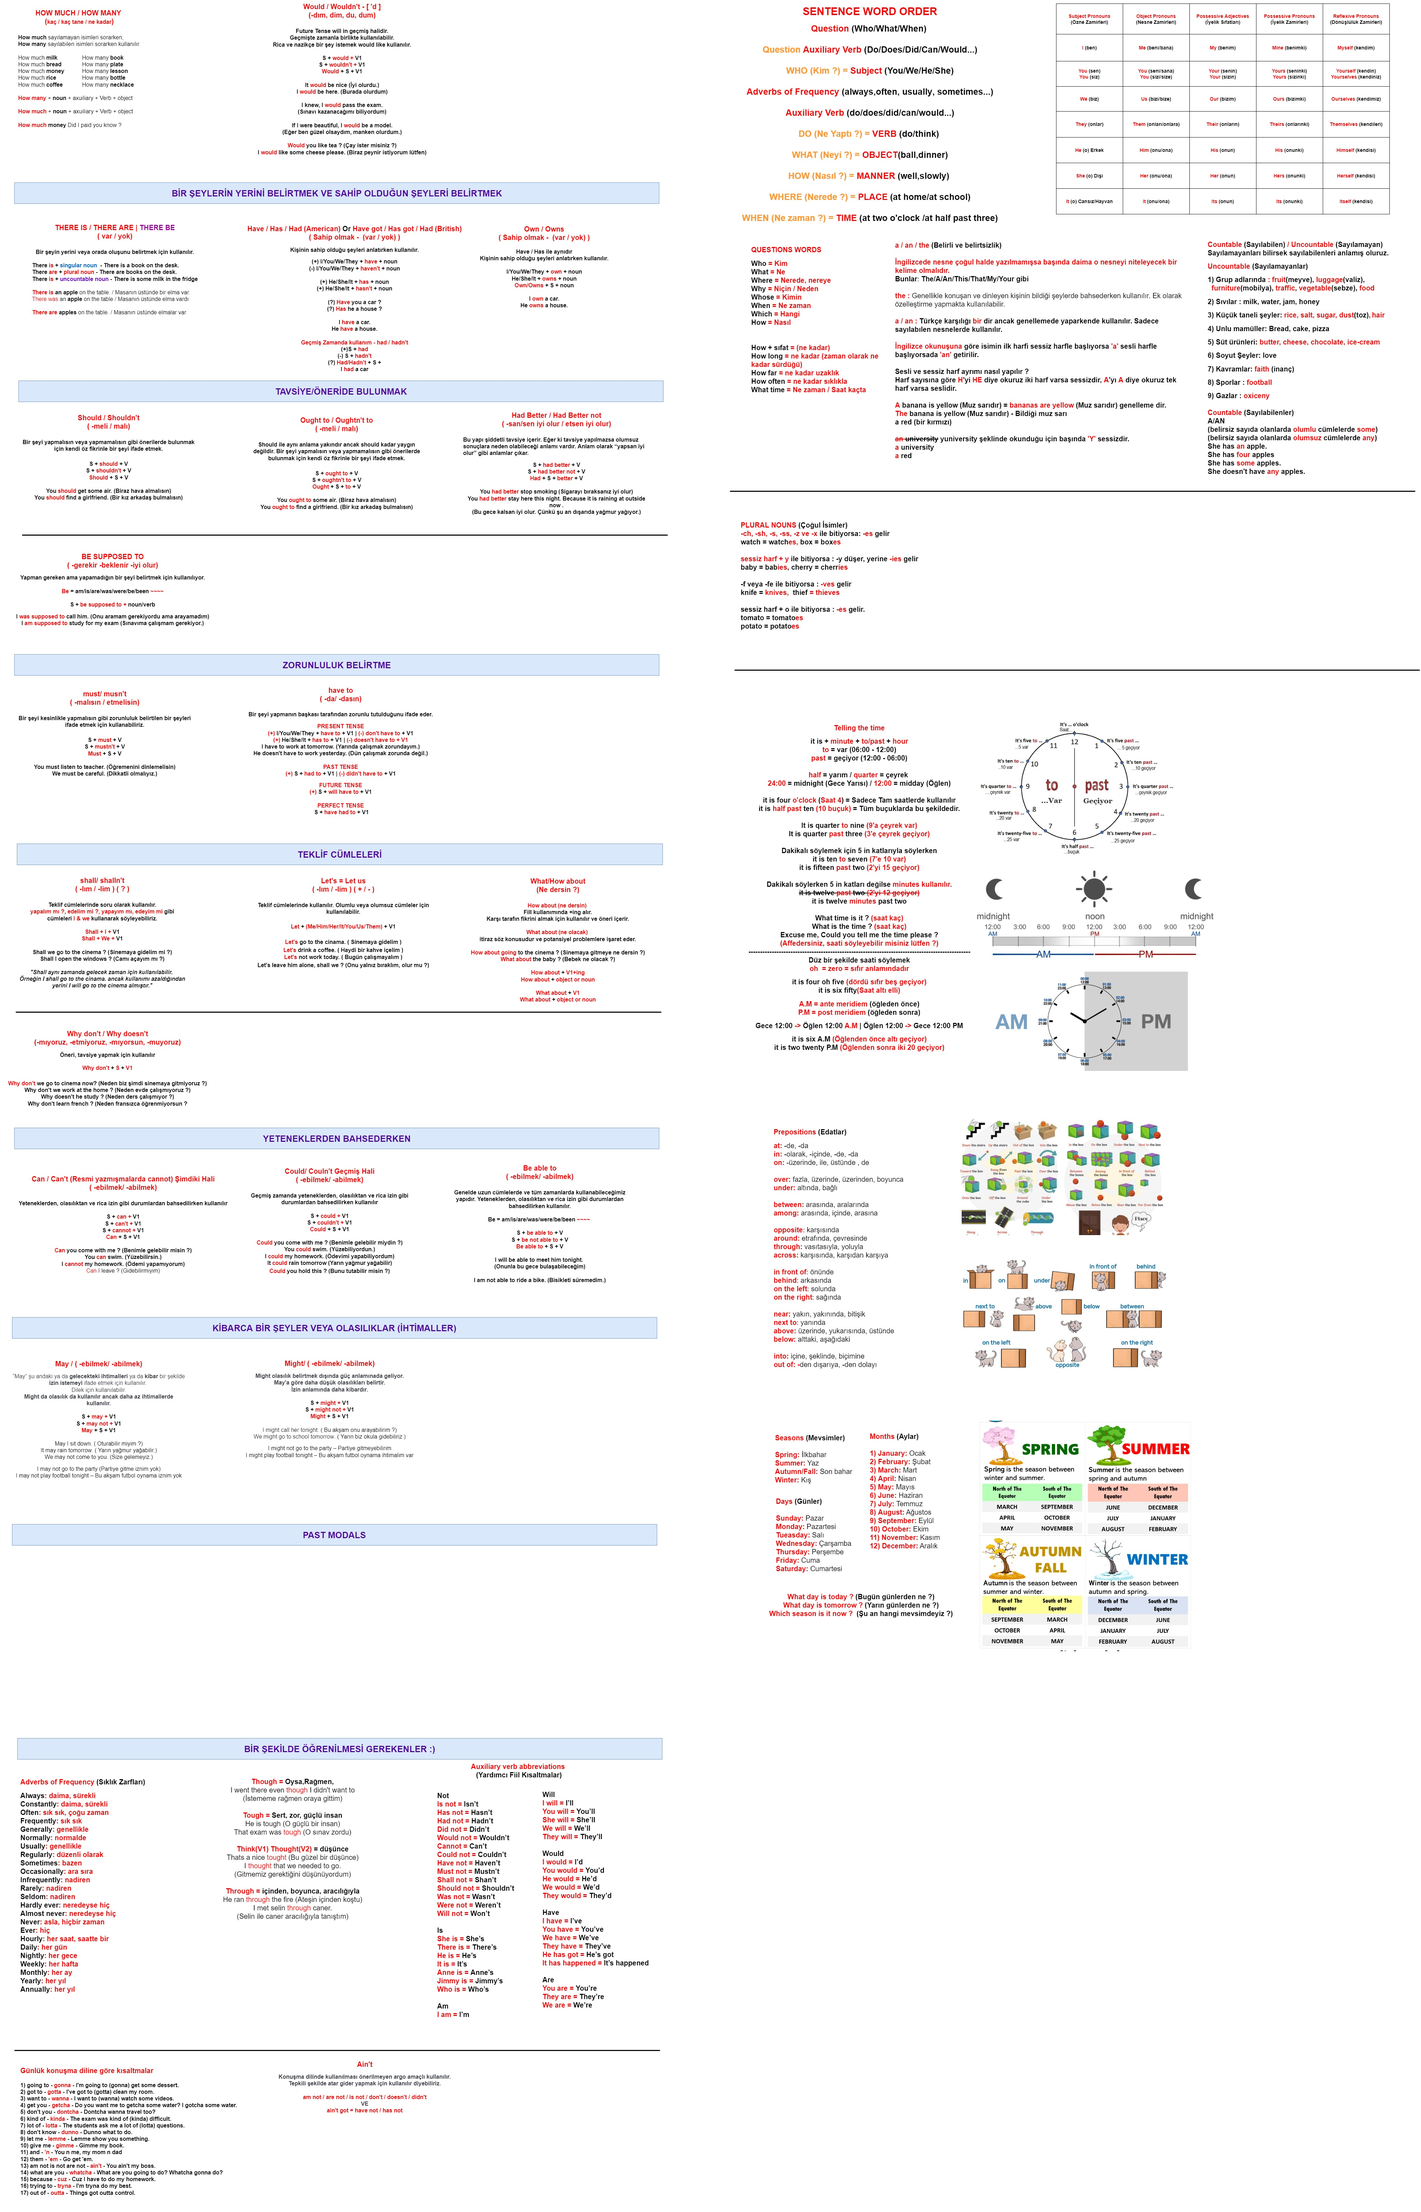
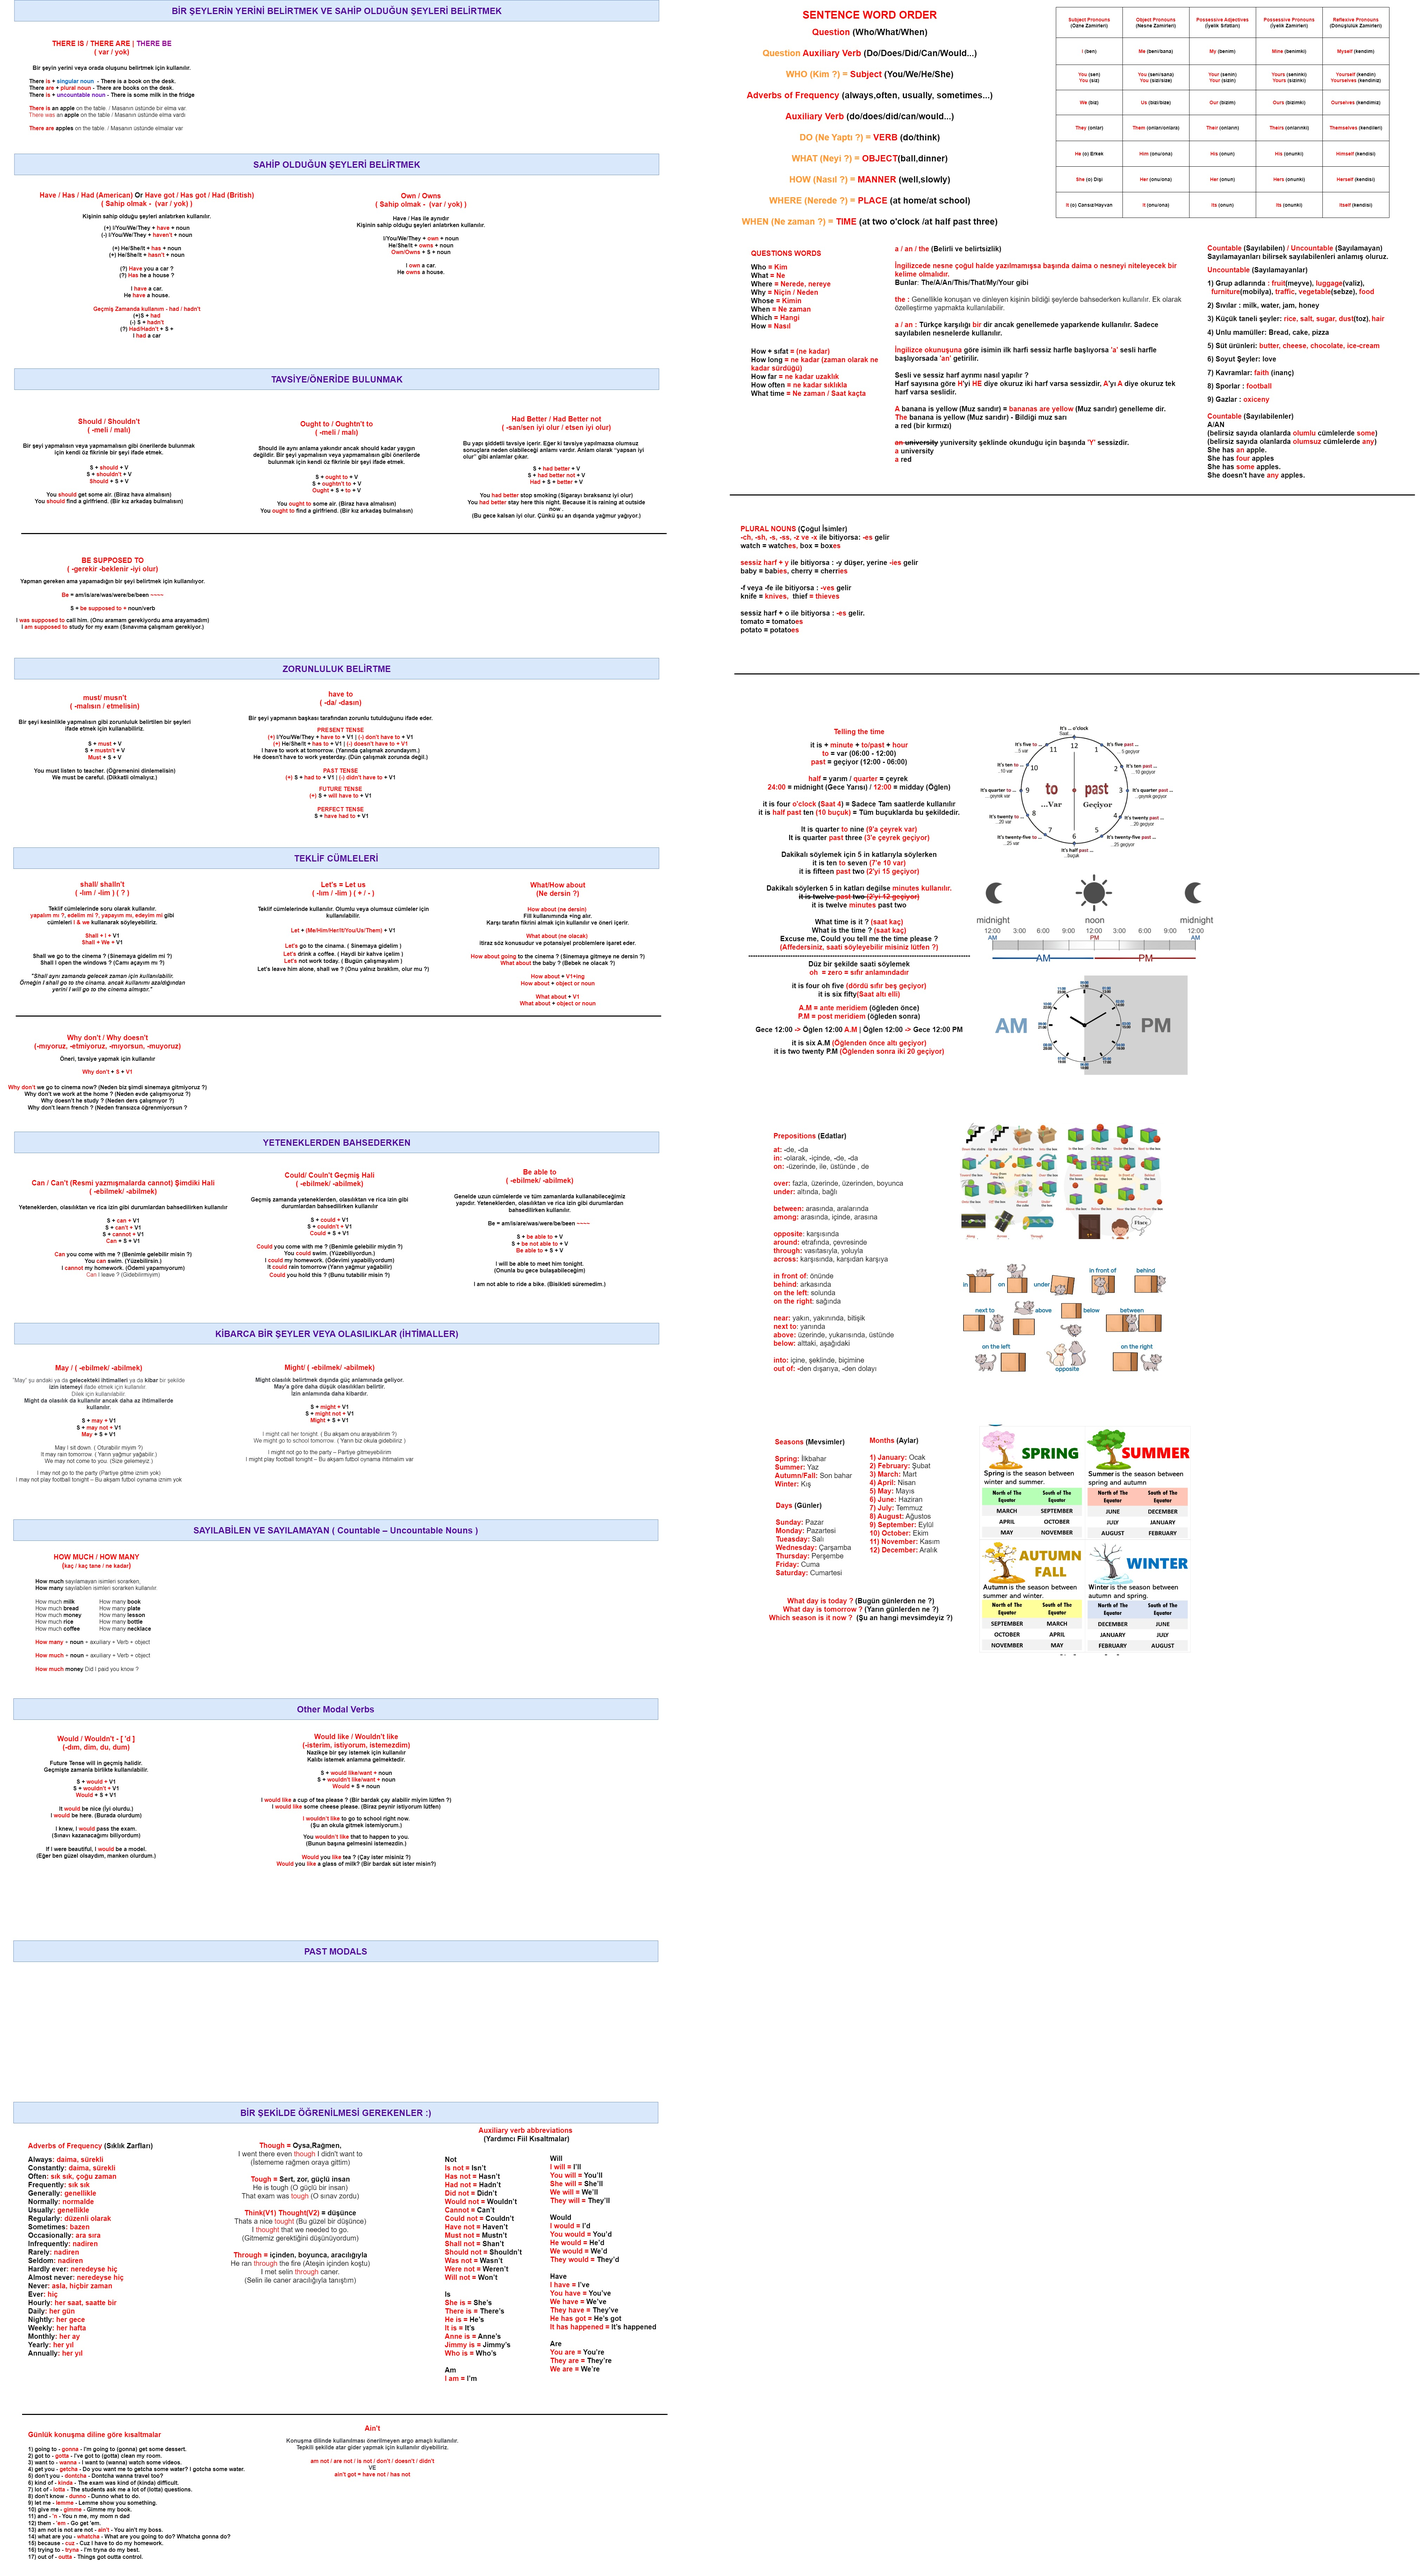
added would like and readme

diff --git a/README.md b/README.md
@@ -33,6 +33,8 @@
 - https://blog.cambly.com/tr/
 - https://etkilipratikingilizce.com/
 - https://www.ef.com.tr/ingilizce-ogreniyorum/ingilizce-gramer/
+- https://nasilokunur.net/
+- https://www.okunusu.com/
 
 ### `Youtube Sources`
 - https://www.youtube.com/c/EtkiliPratikİngilizce - Etkili Pratik İngilizce
